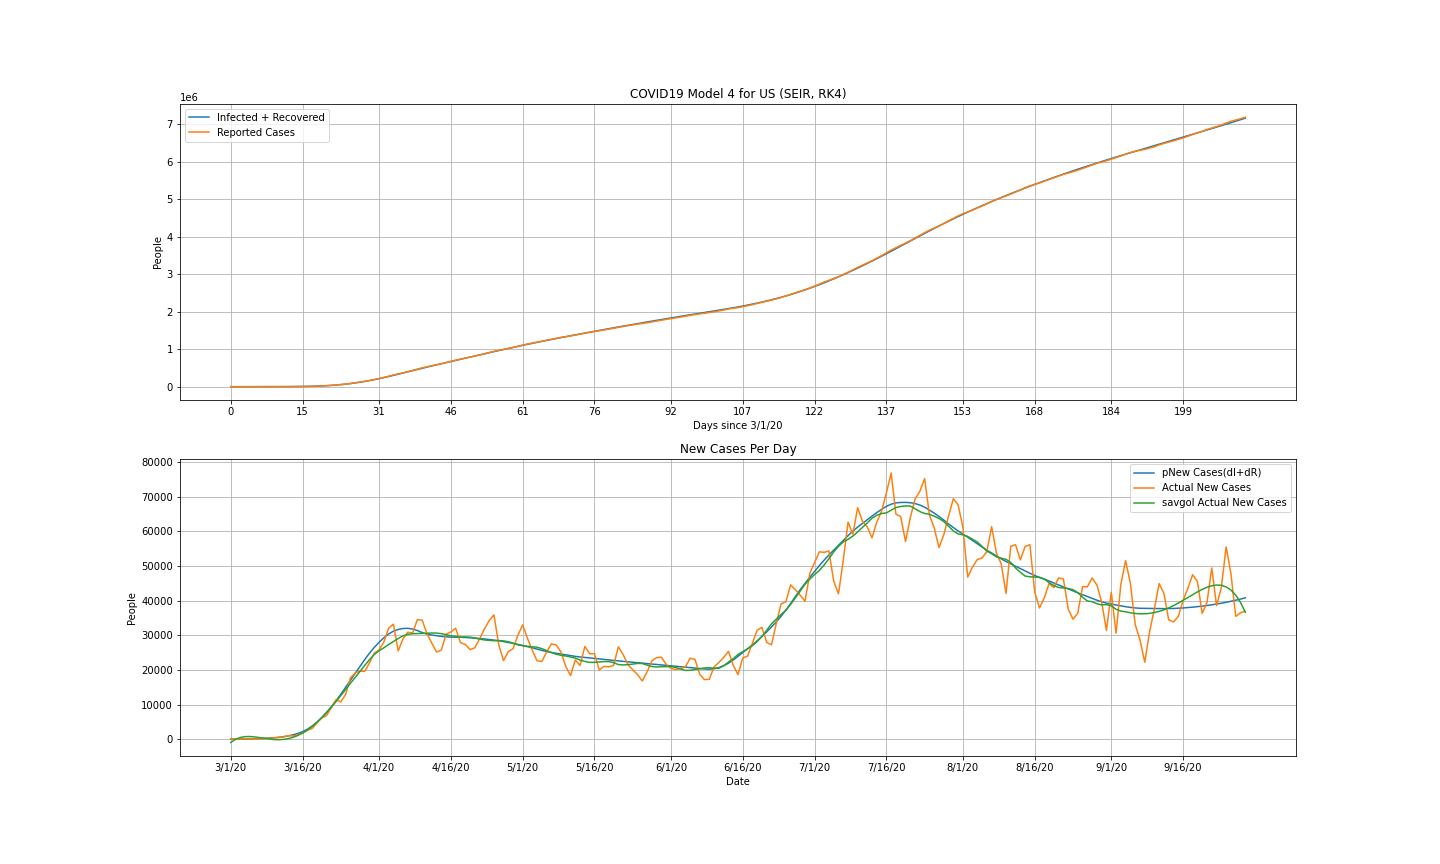
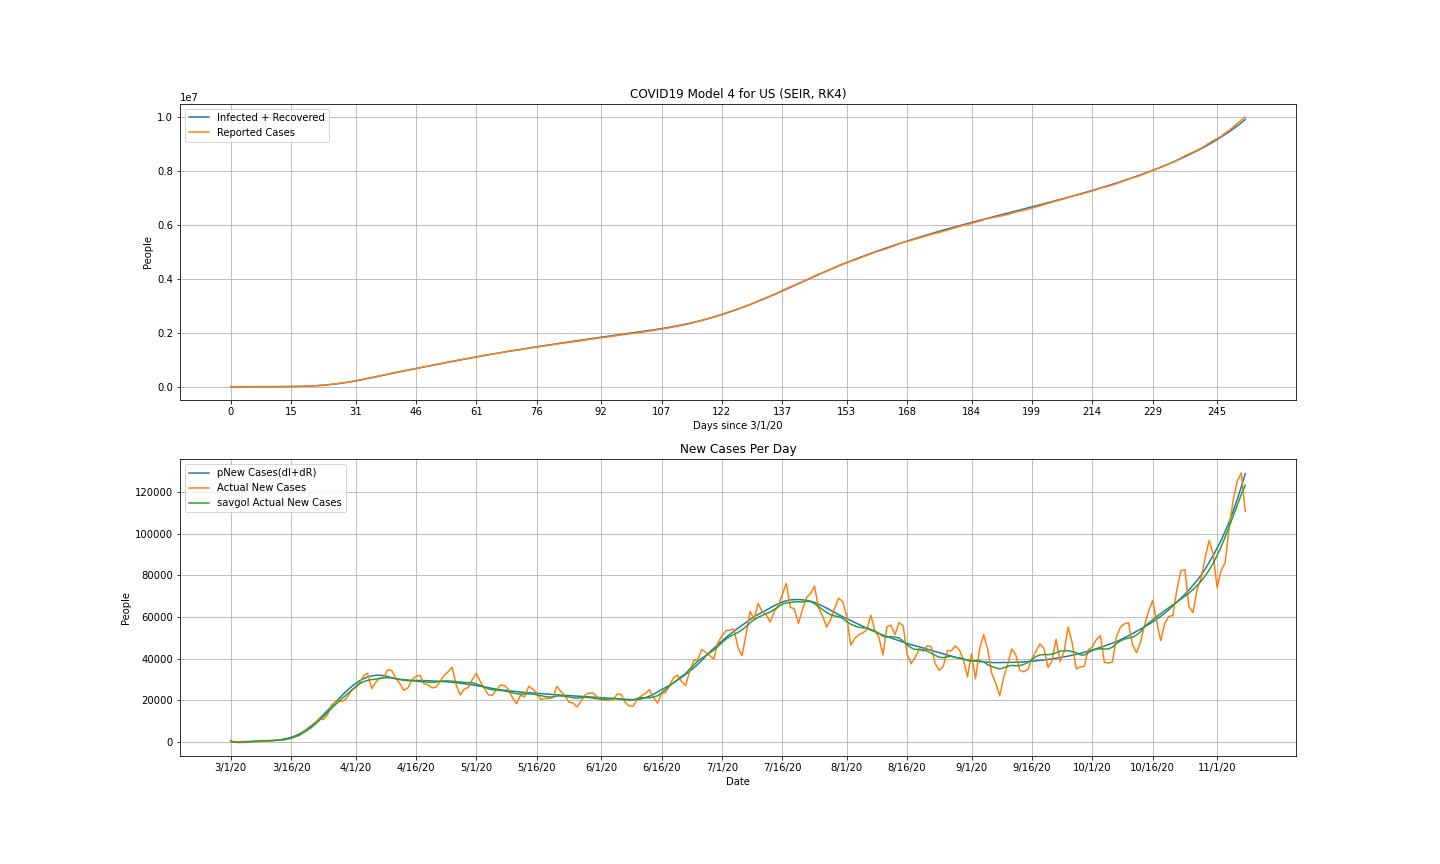
Updated numbers up to Nov.
Added to beta2list
Automate axis labels

diff --git a/Code_US/COVID_CSSE_US_All_ver4.py b/Code_US/COVID_CSSE_US_All_ver4.py
@@ -60,7 +60,7 @@ sumCSSE = pureCSSE.sum(axis=0)
 
 daterange=[datetime.strftime(StartDateObj + timedelta(days=x),'%#m/%#d/%y') for x in range(tEnd)]
 newInf=[CovTrac.loc[date]['positiveIncrease'] for date in daterange]
-savgolnewInf=signal.savgol_filter(newInf,51,5)
+savgolnewInf=signal.savgol_filter(newInf,51,7)
 
 # =============================================================================
 # Parameters
@@ -75,9 +75,9 @@ N=329450000 # Population size
 initInf = 100
 initCond1 = [N-2.5*initInf,initInf*1.5,initInf,0] #Format: [S,E,I,R]
 
-times=[0,18,40,65,100,106,118,123,137,150,160,181,tEnd]
+times=[0,18,40,65,100,106,118,123,137,150,160,181,240,tEnd]
 beta1List=[0.82]
-beta2List=[0,-0.0967,-0.017,0,.0675,.027,-0.009,-0.015,-0.031,-0.013,-0.0025,0.01]
+beta2List=[0,-0.0967,-0.017,0,.0675,.027,-0.009,-0.015,-0.031,-0.013,-0.0025,0.0113,0.02]
 for i in range(len(beta2List)):    
     beta1List.append(beta1List[i]*np.exp(beta2List[i]*(times[i+1]-times[i])))
 
@@ -116,61 +116,66 @@ pnewCases = [ylists[2][n+1]-ylists[2][n]+ylists[3][n+1]-ylists[3][n] for n in ra
 gsd= '3/1/20' # graph start date
 ged= yesterday # graph end date
 show_EIR=0
-def replot(EIRswitch, GraphStartDate=gsd, GraphEndDate=ged):
-    # Dates and Date Ranges
-    gsdObj=datetime.strptime(GraphStartDate,'%m/%d/%y')
-    gedObj=datetime.strptime(GraphEndDate,'%m/%d/%y')
-    rangeStart = (gsdObj-StartDateObj).days
-    rangeEnd = (gedObj-StartDateObj).days + 1
-    gdr = daterange[rangeStart:rangeEnd] # graph date range
-    tlistlimit=tlists.T[rangeStart:rangeEnd]
-    fig, (ax1,ax2) = plt.subplots(2,figsize=(20,12))
-    plt.sca(ax1)
-    plt.cla()
-    
-    # Plotting EIR
-    if EIRswitch==1:
-        labels = ["Exposed", "Infected", "Recovered"]
-        for y_arr, label in zip(ylists[1:], labels):
-            ax1.plot(tlists.T[rangeStart:rangeEnd], y_arr[rangeStart:rangeEnd], label=label)
-    
-    # Plotting I+R
-    pIRList=ylists[2]+ylists[3]
-    ax1.plot(tlistlimit, pIRList[rangeStart:rangeEnd], label="Infected + Recovered")
-    ax1.plot(tlistlimit, sumCSSE[rangeStart:rangeEnd], label="Reported Cases")
-    ax1.set_title('COVID19 Model 4 for US (SEIR, RK4)')
-    ax1.set_xlabel('Days since '+gsd)
+#def replot(EIRswitch, GraphStartDate=gsd, GraphEndDate=ged):
+# Dates and Date Ranges
+gsdObj=datetime.strptime(gsd,'%m/%d/%y')
+gedObj=datetime.strptime(ged,'%m/%d/%y')
+rangeStart = (gsdObj-StartDateObj).days
+rangeEnd = (gedObj-StartDateObj).days + 1
+gdr = daterange[rangeStart:rangeEnd] # graph date range
+tlistlimit=tlists.T[rangeStart:rangeEnd]
+fig, (ax1,ax2) = plt.subplots(2,figsize=(20,12))
+plt.sca(ax1)
+plt.cla()
+
+# Plotting EIR
+EIRswitch=0
+if EIRswitch==1:
+    labels = ["Exposed", "Infected", "Recovered"]
+    for y_arr, label in zip(ylists[1:], labels):
+        ax1.plot(tlists.T[rangeStart:rangeEnd], y_arr[rangeStart:rangeEnd], label=label)
+
+# Plotting I+R
+pIRList=ylists[2]+ylists[3]
+ax1.plot(tlistlimit, pIRList[rangeStart:rangeEnd], label="Infected + Recovered")
+ax1.plot(tlistlimit, sumCSSE[rangeStart:rangeEnd], label="Reported Cases")
+ax1.set_title('COVID19 Model 4 for US (SEIR, RK4)')
+ax1.set_xlabel('Days since '+gsd)
 
 
-    # Plotting New Cases
-    ax2.plot(gdr, pnewCases[rangeStart:rangeEnd], label="pNew Cases(dI+dR)")
-    ax2.plot(gdr, newInf[rangeStart:rangeEnd], label="Actual New Cases")
-    ax2.plot(gdr, savgolnewInf[rangeStart:rangeEnd], label="savgol Actual New Cases")
-    ax2.set_title('New Cases Per Day')
-    ax2.set_xlabel("Date")
+# Plotting New Cases
+ax2.plot(gdr, pnewCases[rangeStart:rangeEnd], label="pNew Cases(dI+dR)")
+ax2.plot(gdr, newInf[rangeStart:rangeEnd], label="Actual New Cases")
+ax2.plot(gdr, savgolnewInf[rangeStart:rangeEnd], label="savgol Actual New Cases")
+ax2.set_title('New Cases Per Day')
+ax2.set_xlabel("Date")
 
-    
-    # Universal Formatting        
-    for axes in [ax1,ax2]:
-        plt.sca(axes)
-        axes.legend(loc='best')
-        axes.grid()
-        axes.set_ylabel('People')
-    datenums=[0,15,31,46,61,76,92,107,122,137,153,168,184,199]
-    dateticks=[daterange[n] for n in datenums]
-    includeticknum=[tick for tick in datenums if tick in tlistlimit]
-    includetickdate = [tick for tick in dateticks if tick in gdr]
-    ax1.set_xticks(includeticknum)
-    ax2.set_xticks(includetickdate)
 
-    # Logarithmic Graph
-    ax1.set_yscale('log')
-    plt.savefig('CurvesForCOVID19_US_4_Log.png')
-    # Linear Graph
-    ax1.set_yscale('linear')
-    plt.savefig('CurvesForCOVID19_US_4.png')
+# Universal Formatting        
+for axes in [ax1,ax2]:
+    plt.sca(axes)
+    axes.legend(loc='best')
+    axes.grid()
+    axes.set_ylabel('People')
 
-replot(show_EIR,gsd,ged)
+dateticks = [date.to_pydatetime() for date in pd.date_range('3/1/20','12/1/20' , freq='1M')-pd.offsets.MonthBegin(1)]
+for i in range(len(dateticks)):
+    dateticks.insert((2*i)+1, (dateticks[2*i] + timedelta(days=15)))
+datenums = [(date-gsdObj).days for date in dateticks]
+dateticks = [datetime.strftime(date,'%#m/%#d/%y') for date in dateticks]
+includeticknum=[tick for tick in datenums if tick in tlistlimit]
+includetickdate = [tick for tick in dateticks if tick in gdr]
+ax1.set_xticks(includeticknum)
+ax2.set_xticks(includetickdate)
+
+# Logarithmic Graph
+ax1.set_yscale('log')
+plt.savefig('CurvesForCOVID19_US_4_Log.png')
+# Linear Graph
+ax1.set_yscale('linear')
+plt.savefig('CurvesForCOVID19_US_4.png')
+
+#replot(show_EIR,gsd,ged)
 
 print("I+R")
 print(ylists[2]+ylists[3])
